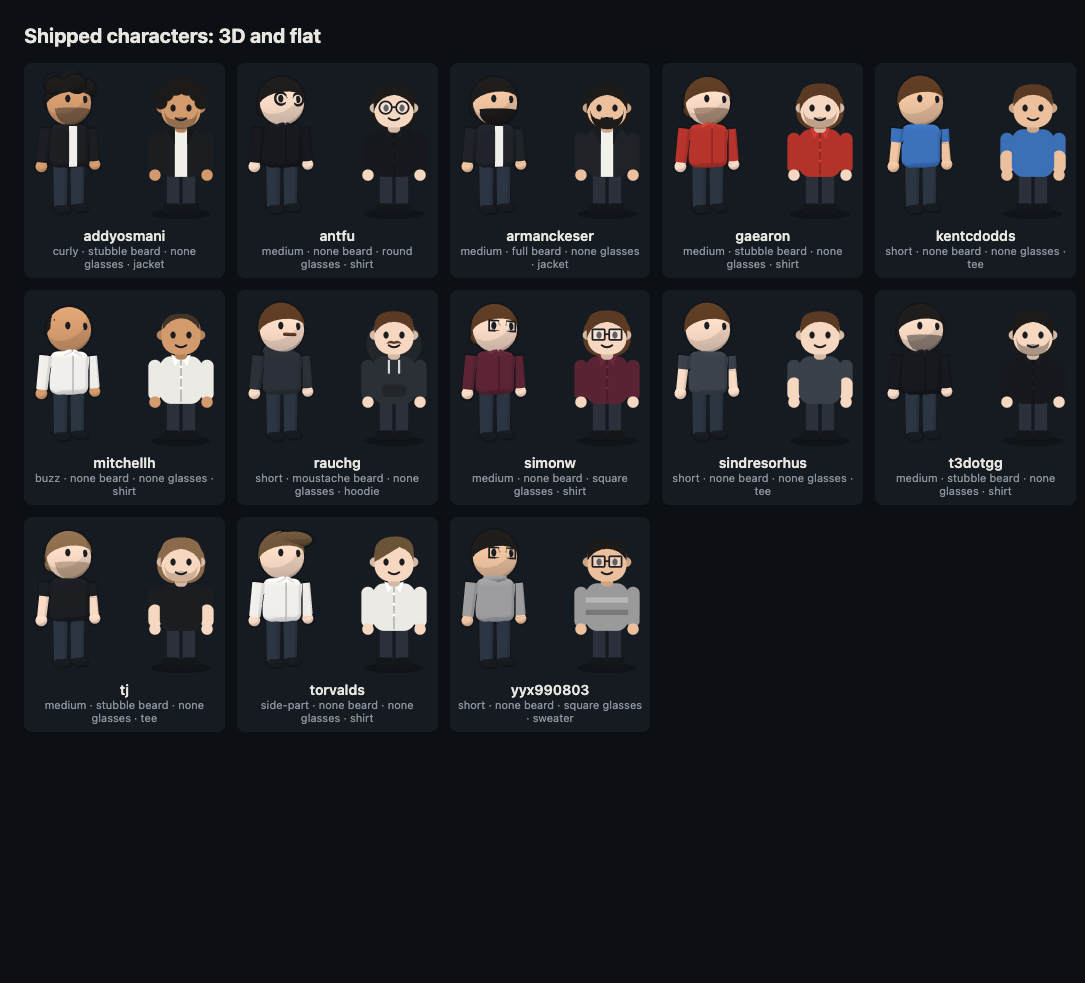
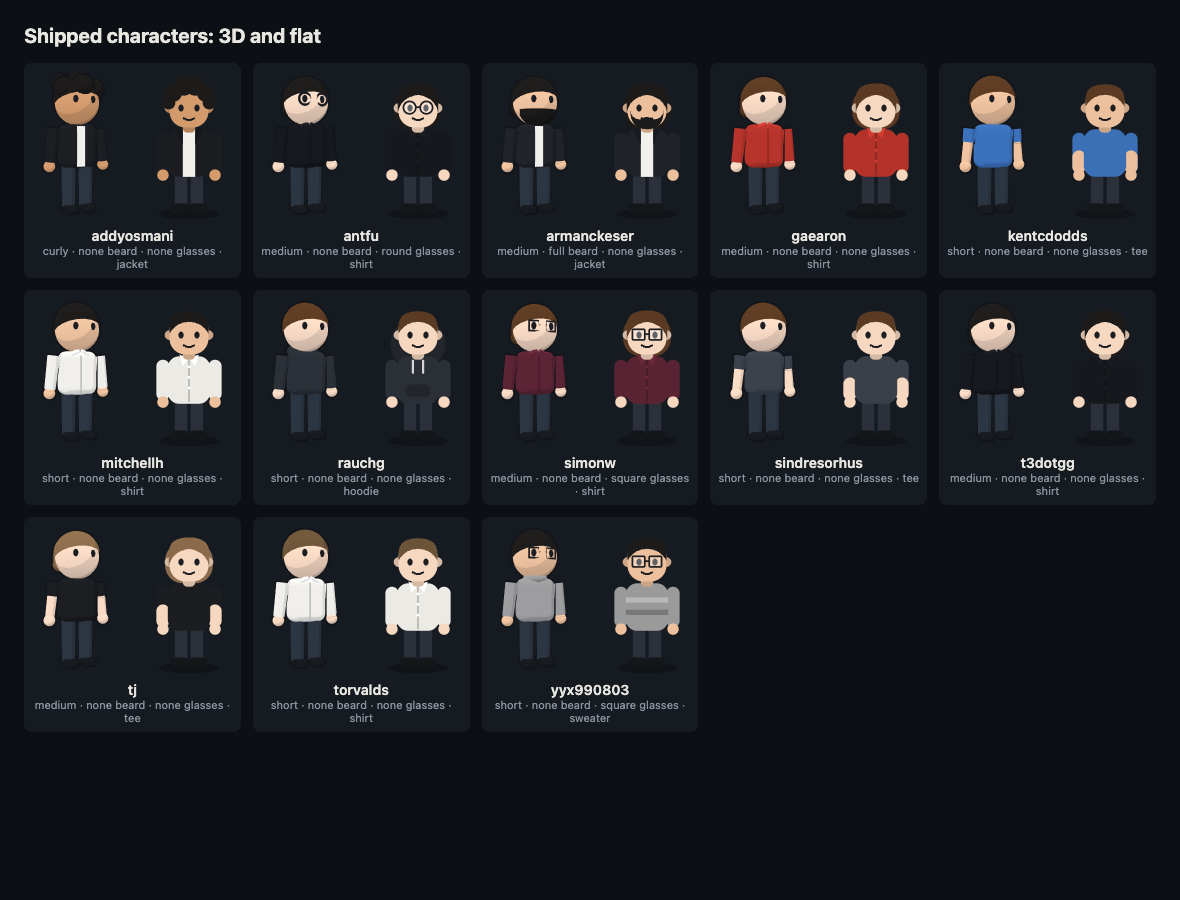
Plain looks for the opponents, and never draw one for an account that opted out
- The 12 opponents' files keep only hair, glasses, top and colours: beards and
  the moustache are gone, mitchellh and torvalds get plain short hair (the 3D
  buzz read as bald, the side-part as a cap brim), mitchellh's skin is fair.
- OPPONENTS.md and characters/README.md say where a character comes from and
  how to change it (own stard/character.md) or have it removed (an issue or a
  message, and the file is deleted).
- teamFor reads stard/no-play in the same query and drops the file kept here
  when it exists. Battles, challenges and run pictures naming an account on the
  NO_PLAY block list are refused before the cache, as the pool already was.
- RESPONSE_SHAPE 6: the pool reply's look changed shape.

diff --git a/worker/src/character.test.ts b/worker/src/character.test.ts
@@ -1,6 +1,11 @@
 import { afterEach, describe, expect, test, vi } from "vitest";
-import { GUEST, HOST, LISTED, OWN_FILE, fakeGitHub } from "./fake-github.test-helper.ts";
+import { GUEST, HOST, LISTED, LISTED_LEFT_OUT, OWN_FILE, fakeGitHub } from "./fake-github.test-helper.ts";
 import { poolResponse } from "./battle.ts";
+import { callWorker, memoryCaches } from "./worker-host.test-helper.ts";
+
+// The share picture's assets are bundled by wrangler and can't load in Node; nothing here draws a picture.
+vi.mock("@resvg/resvg-wasm/index_bg.wasm", () => ({ default: new Uint8Array() }));
+vi.mock("./SpaceGrotesk-Bold.ttf", () => ({ default: new ArrayBuffer(0) }));
 
 afterEach(() => vi.unstubAllGlobals());
 
@@ -36,5 +41,43 @@ describe("a player's character in a run", () => {
   test("poolResponse_makes_the_look_from_the_username_when_no_place_has_a_character", async () => {
     const { character } = await poolOf(GUEST);
     expect([character.name, character.custom, character.look.glasses]).toEqual([GUEST, false, "round"]);
+  });
+});
+
+describe("a character kept here for an account that opted out", () => {
+  // The files in characters/ are drawn by someone else, so an account that asked not to
+  // be played (OPPONENTS.md) must never show one.
+
+  test("poolResponse_makes_the_look_from_the_username_when_the_account_has_a_no_play_file", async () => {
+    // Regression guarded: the account's own run, which the no-play file leaves open,
+    // drawing the figure kept here for it (bald, shades) over the username look.
+    const { character } = await poolOf(LISTED_LEFT_OUT);
+    expect([character.name, character.custom, character.look.hair, character.look.glasses]).toEqual([LISTED_LEFT_OUT, false, "bun", "none"]);
+  });
+
+  test("battle_is_refused_when_one_side_is_on_the_block_list", async () => {
+    // Regression guarded: an instant battle reading a blocked account and showing the
+    // figure kept here for it; the block list only guarded a run's pool.
+    vi.stubGlobal("fetch", fakeGitHub);
+    vi.stubGlobal("caches", memoryCaches());
+    const { status, body } = await callWorker(`/api/battle?a=${HOST}&b=${LISTED}`, undefined, { NO_PLAY: "Study-Group-Troy" });
+    expect(status).toBe(403);
+    expect(body.error).toBe("study-group-troy has asked not to be played.");
+  });
+
+  test("battle_shows_the_file_kept_here_when_nobody_is_on_the_block_list", async () => {
+    vi.stubGlobal("fetch", fakeGitHub);
+    vi.stubGlobal("caches", memoryCaches());
+    const { status, body } = await callWorker(`/api/battle?a=${HOST}&b=${LISTED}`, undefined, { NO_PLAY: "" });
+    expect(status).toBe(200);
+    expect((body.b as Pool).character.name).toBe("Troy");
+  });
+
+  test("run_picture_is_refused_when_its_player_is_on_the_block_list", async () => {
+    vi.stubGlobal("fetch", fakeGitHub);
+    vi.stubGlobal("caches", memoryCaches());
+    const { status, body } = await callWorker(`/api/card/run.png?me=${LISTED}`, undefined, { NO_PLAY: `${GUEST},${LISTED}` });
+    expect(status).toBe(403);
+    expect(body.error).toBe("study-group-troy has asked not to be played.");
   });
 });

diff --git a/worker/src/battle.ts b/worker/src/battle.ts
@@ -2,6 +2,7 @@ import { battle, drawFromStars, fieldTeam, instantSeed, type Fighter, type RepoF
 import { battleCard, messageCard, trainerCard, type CardRepo, type TrainerFacts } from "../../server/cards.ts";
 import { characterFrom, characterLevel, chosenCharacter, defaultCharacter, listedCharacterPath, type Character } from "../../server/character.ts";
 import { SELF_REPO } from "../../server/self-repo.ts";
+import { NO_PLAY_FILE } from "./no-play.ts";
 import type { FrozenRepo, SideFacts, TeamSource } from "../../server/game.ts";
 import type { RunFighter } from "../../server/run/rules.ts";
 import { cardFor } from "../../server/run/stats.ts";
@@ -152,7 +153,7 @@ export async function teamFor(token: string, login: string, now: number, size = 
       login: string;
       avatarUrl: string;
       profile: { readme: { text?: string } | null } | null;
-      stard: { readme: { text?: string } | null; character?: { text?: string } | null } | null;
+      stard: { readme: { text?: string } | null; character?: { text?: string } | null; noPlay?: { oid: string } | null } | null;
       pinnedItems: { nodes: ({ nameWithOwner: string } | Record<string, never>)[] };
       repositories: { nodes: { nameWithOwner: string }[] };
       starredRepositories: { nodes: { nameWithOwner: string; isPrivate: boolean }[] };
@@ -167,6 +168,7 @@ export async function teamFor(token: string, login: string, now: number, size = 
       stard: repository(name: "stard") {
         readme: object(expression: "HEAD:README.md") { ... on Blob { text } }
         character: object(expression: "HEAD:character.md") { ... on Blob { text } }
+        noPlay: object(expression: ${JSON.stringify(`HEAD:${NO_PLAY_FILE}`)}) { oid }
       }
       pinnedItems(first: ${TEAM_SIZE}, types: REPOSITORY) { nodes { ... on Repository { nameWithOwner } } }
       repositories(first: ${TEAM_SIZE}, ownerAffiliations: OWNER, isFork: false, privacy: PUBLIC, orderBy: { field: STARGAZERS, direction: DESC }) { nodes { nameWithOwner } }
@@ -182,7 +184,10 @@ export async function teamFor(token: string, login: string, now: number, size = 
   // Nobody has to give their profile README over to the game: a repo called `stard`
   // is read first, and the two are read together so a part can live in either.
   const readme = `${user.stard?.readme?.text ?? ""}\n${user.profile?.readme?.text ?? ""}`;
-  const built = chosenCharacter({ ownFile: user.stard?.character?.text ?? null, readme, listedFile: data.here?.character?.text ?? null }, user.login);
+  // The file kept here was drawn by someone else, so an account that opted out of being
+  // played (OPPONENTS.md) never shows it; its own file and README card still count.
+  const listedFile = user.stard?.noPlay ? null : (data.here?.character?.text ?? null);
+  const built = chosenCharacter({ ownFile: user.stard?.character?.text ?? null, readme, listedFile }, user.login);
   const character: Player = { ...(built ?? defaultCharacter(user.login)), ...trainerFacts(user), custom: built !== null };
 
   // The pinned and top repos are read by name only here, and their facts later in the

diff --git a/worker/src/fake-github.test-helper.ts b/worker/src/fake-github.test-helper.ts
@@ -40,7 +40,7 @@ const REPOS: Record<string, Repo> = {
   ...POPULAR_REPOS,
 };
 
-type Account = { readme: string | null; pinned: string[]; stars: string[]; characterFile?: string };
+type Account = { readme: string | null; pinned: string[]; stars: string[]; characterFile?: string; noPlay?: true };
 
 export const HOST = "study-group-abed";
 export const GUEST = "study-group-annie";
@@ -48,10 +48,14 @@ export const GUEST = "study-group-annie";
 export const LISTED = "study-group-troy";
 /** Has their own `stard/character.md` as well as a file kept in this repo. */
 export const OWN_FILE = "study-group-shirley";
+/** Has a character file kept in this repo, and a `stard/no-play` file: opted out of being played. */
+export const LISTED_LEFT_OUT = "study-group-dean";
+
 // `characters/<login>.md` in this repo.
 const LISTED_FILES: Record<string, string> = {
   [LISTED]: "name: Troy\nhair: buzz\nhair-color: black\nbeard: stubble\ntop: tee\ntop-color: blue",
   [OWN_FILE]: "name: Shirley (kept here)\nhair: long",
+  [LISTED_LEFT_OUT]: "name: Dean (kept here)\nhair: bald\nglasses: shades",
 };
 /** No stars, no pinned repos and no repos of their own. */
 export const NEWCOMER = "study-group-pierce";
@@ -71,6 +75,7 @@ const ACCOUNTS: Record<string, Account> = {
   // No README: the default character, the ace from a pinned repo, only two stars.
   [GUEST]: { readme: null, pinned: ["greendale/paintball-assassin"], stars: ["city-college/mascot", "greendale/human-being"] },
   [LISTED]: { readme: null, pinned: ["troy-barnes/blanket-fort"], stars: [] },
+  [LISTED_LEFT_OUT]: { readme: "# Dean", pinned: ["greendale/human-being"], stars: [], noPlay: true },
   [OWN_FILE]: { readme: "# Shirley", pinned: ["greendale/human-being"], stars: [], characterFile: "name: Shirley\nhair: medium\nglasses: square\nhat: beanie" },
   [NEWCOMER]: { readme: null, pinned: [], stars: [] },
   [COLLECTOR]: { readme: null, pinned: ["greendale/dreamatorium"], stars: [...POPULAR, "city-college/mascot"] },
@@ -97,7 +102,9 @@ function userNode(login: string) {
     login, avatarUrl: `https://avatars.example/${login}`, createdAt: "2015-08-01T00:00:00Z",
     followers: { totalCount: 30 }, owned: { nodes: [] },
     profile: null,
-    stard: account.readme === null ? null : { readme: { text: account.readme }, character: account.characterFile === undefined ? null : { text: account.characterFile } },
+    stard: account.readme === null
+      ? null
+      : { readme: { text: account.readme }, character: account.characterFile === undefined ? null : { text: account.characterFile }, noPlay: account.noPlay ? { oid: "d3a9e1" } : null },
     pinnedItems: { nodes: account.pinned.map(repoNode) },
     repositories: { nodes: [] },
     starredRepositories: { nodes: account.stars.map((nameWithOwner) => ({ nameWithOwner, isPrivate: false })) },

diff --git a/worker/src/index.ts b/worker/src/index.ts
@@ -3,7 +3,7 @@ import { BATTLE_PATH, RUN_POOL_PATH, TRAINER_PATH, battleResponse, trainerRespon
 import { CARD_PATH, cardResponse } from "./cards.ts";
 import { cacheKeyFor } from "./edge-cache.ts";
 import { GAME_PATH, gameResponse } from "./game.ts";
-import { OPPONENTS_PATH, OptedOut, blockListOf, checkPoolRead, opponentsBody, readOptOuts, withBlockList, type OptOuts } from "./no-play.ts";
+import { OPPONENTS_PATH, OptedOut, blockListOf, checkPoolRead, checkTeamRead, opponentsBody, readOptOuts, withBlockList, type OptOuts } from "./no-play.ts";
 import { cachedPool, poolReply, type PoolDeps } from "./pool.ts";
 import { RUN_PATH, runResponse, type RunDeps } from "./run.ts";
 import { RUN_PICTURE_PATH, RUN_SHARE_PATH, SHARE_PATH, VERSUS_PATH, runPictureResponse, runSharePage, sharePage, versusResponse } from "./share.ts";
@@ -123,6 +123,13 @@ export default {
         console.error(error);
         return json({ error: "GitHub didn't answer. Try again shortly." }, 502, 0, OPEN);
       }
+    }
+
+    try {
+      checkTeamRead(url.searchParams, blocked);
+    } catch (error) {
+      if (error instanceof OptedOut) return json({ error: error.message }, error.status, 0, OPEN);
+      throw error;
     }
 
     // A match changes with every comment, so its replies set their own short cache and skip this one.

diff --git a/worker/src/no-play.ts b/worker/src/no-play.ts
@@ -17,7 +17,7 @@ import { LOGIN } from "./cards.ts";
 
 export const OPPONENTS_PATH = /^\/api\/run\/opponents$/;
 const NO_PLAY_REPO = "stard";
-const NO_PLAY_FILE = "no-play";
+export const NO_PLAY_FILE = "no-play";
 const FORBIDDEN = 403;
 
 /** Which of `logins` opted out, in lower case. */
@@ -78,6 +78,21 @@ export async function checkPoolRead(params: URLSearchParams, optOuts: OptOuts, b
   if (!LOGIN.test(login) || forRun === login) return;
   const [opted] = await optOuts([login]);
   if (opted) throw new OptedOut(asked, "as-opponent");
+}
+
+/** The query parameters that name an account whose team is read: both sides of a battle or challenge, a run picture's player. */
+const TEAM_LOGIN_PARAMS = ["a", "b", "me"] as const;
+
+/**
+ * Refuses a battle, challenge or picture that names an account on the block list, so
+ * neither its stars nor its character are read for anyone. Comes before the cache, so
+ * nothing read before the account asked is served after.
+ */
+export function checkTeamRead(params: URLSearchParams, blocked: ReadonlySet<string>): void {
+  for (const name of TEAM_LOGIN_PARAMS) {
+    const asked = params.get(name);
+    if (asked !== null && blocked.has(asked.toLowerCase())) throw new OptedOut(asked, "at-all");
+  }
 }
 
 /** The body of GET /api/run/opponents. */

diff --git a/src/lib/run.test.ts b/src/lib/run.test.ts
@@ -20,7 +20,7 @@ describe("fetchPlayer", () => {
 
     expect(asked).toHaveLength(1);
     expect(asked[0].pathname).toBe("/api/run/pool");
-    expect(Object.fromEntries(asked[0].searchParams)).toEqual({ login: "study-group-abed", for: "study-group-annie", _shape: "5" });
+    expect(Object.fromEntries(asked[0].searchParams)).toEqual({ login: "study-group-abed", for: "study-group-annie", _shape: "6" });
   });
 
   test("raises the Worker's message when the pool can't be read", async () => {

diff --git a/server/response-shape.ts b/server/response-shape.ts
@@ -4,4 +4,4 @@
 // The Worker keys its edge cache on it (worker/src/edge-cache.ts), and the Play screen
 // sends it with each read (src/lib/run.ts), so neither the edge nor a browser's own
 // HTTP cache hands an older shape to a newer app after a deploy.
-export const RESPONSE_SHAPE = "5";
+export const RESPONSE_SHAPE = "6";

diff --git a/characters/README.md b/characters/README.md
@@ -2,17 +2,17 @@
 
 How a player looks in Stard: the figure behind their cards in a battle, on the board in a run, and on their trainer card. One file per GitHub account, `characters/<login>.md`, login in lower case.
 
-The files here were made by hand from each account's public avatar. A key is left out where the avatar doesn't show that part.
-
 ![Every character here, as the arena model and the flat figure](gallery.png)
 
 The picture comes from `npx vite scripts/character-gallery`.
 
 ## Change or remove your file
 
-- Change it: open a pull request that edits `characters/<your login>.md`.
-- Remove it: open a pull request that deletes the file, or open an issue saying which file to remove.
-- Skip this repo entirely: put a file `character.md` with the same keys in a repo of your own called `stard`. Your own file always wins over the one here, and needs no pull request.
+The files for the accounts in [OPPONENTS.md](../OPPONENTS.md) are drawn by hand from each account's public avatar, with plain parts only: hair, glasses, top and colours.
+
+- Change it: add a file `character.md` with the keys below to a public repo of your own called `stard`. Your own file always wins over the one here.
+- Remove it: open an issue (https://github.com/armanckeser/github-stars-organizer/issues/new?title=Remove%20my%20character) or message the owner on GitHub, and the file is deleted.
+- An account that opted out of being played ([OPPONENTS.md](../OPPONENTS.md#dont-want-to-be-played)) never shows the file here.
 
 The game reads, in this order: `character.md` in your `stard` repo, then a trainer card in your `stard` or profile README, then the file here, then a look made from your username.
 

diff --git a/OPPONENTS.md b/OPPONENTS.md
@@ -24,4 +24,13 @@ Anyone can type any GitHub username into Stard, so your public stars can become 
 - **Add a file called `no-play`** (any content) to a public repo called `stard` on your account. Within an hour, nobody else can play against your stars: you are never an opponent, your team links stop opening, and your stars are read only for runs you play yourself.
 - **Ask me** in an issue (https://github.com/armanckeser/github-stars-organizer/issues/new?title=Don%27t%20play%20me) or a message on GitHub. Within a few days your username goes on a private block list: nobody can play against your stars or play as you, and old team links with your name stop opening.
 
+## Your character
+
+Each account here has a character, the figure behind its cards, drawn by hand from its public GitHub avatar and kept in [`characters/`](characters/). Only plain parts are used: hair, glasses, top and colours.
+
+- **Change it:** add a file called `character.md` to a public repo called `stard` on your account ([the keys](characters/README.md#the-keys)). Your file always wins over the one here.
+- **Remove it:** open an issue (https://github.com/armanckeser/github-stars-organizer/issues/new?title=Remove%20my%20character) or message me on GitHub, and the file is deleted.
+
+An account that opted out above never shows the character drawn here, anywhere in Stard.
+
 Not affiliated with or endorsed by GitHub. [Privacy](https://armanckeser.com/privacy#stard)

diff --git a/docs/GAME-DESIGN.md b/docs/GAME-DESIGN.md
@@ -307,6 +307,7 @@ Everything the owner said while the Play run was built, in one place. Status: **
 | "Play a run" sounds meh: say "Play Stard" everywhere (share pictures, README badge, team page button, team preview). | built (#77) |
 | Share pictures show creatures (flat stickers), fill the set hexes, title only. README GIF ends on the new end screen. | built (#71, #77) |
 | Front page: a normal-size Play button beside the title, no sample-account button. | built |
+| Characters for the 12 opponents: ship all 12 (and `armanckeser`), kind and plain (hair, glasses, top, colours; no beards or anything that could read as a caricature), drawn from their public avatars. Removal path in `OPPONENTS.md` and `characters/README.md`: their own `stard/character.md` wins, or ask and the file is deleted. An opted-out account (`stard/no-play` or the block list) never shows the file. One line on the privacy page, pending the owner's wording. | branch `characters` (#72) |
 
 **Demo and speed**
 

diff --git a/characters/mitchellh.md b/characters/mitchellh.md
@@ -1,5 +1,5 @@
-skin: tan
-hair: buzz
+skin: fair
+hair: short
 hair-color: black
 top: shirt
 top-color: white

diff --git a/characters/rauchg.md b/characters/rauchg.md
@@ -1,6 +1,5 @@
 skin: light
 hair: short
 hair-color: brown
-beard: moustache
 top: hoodie
 top-color: #2b2f36
